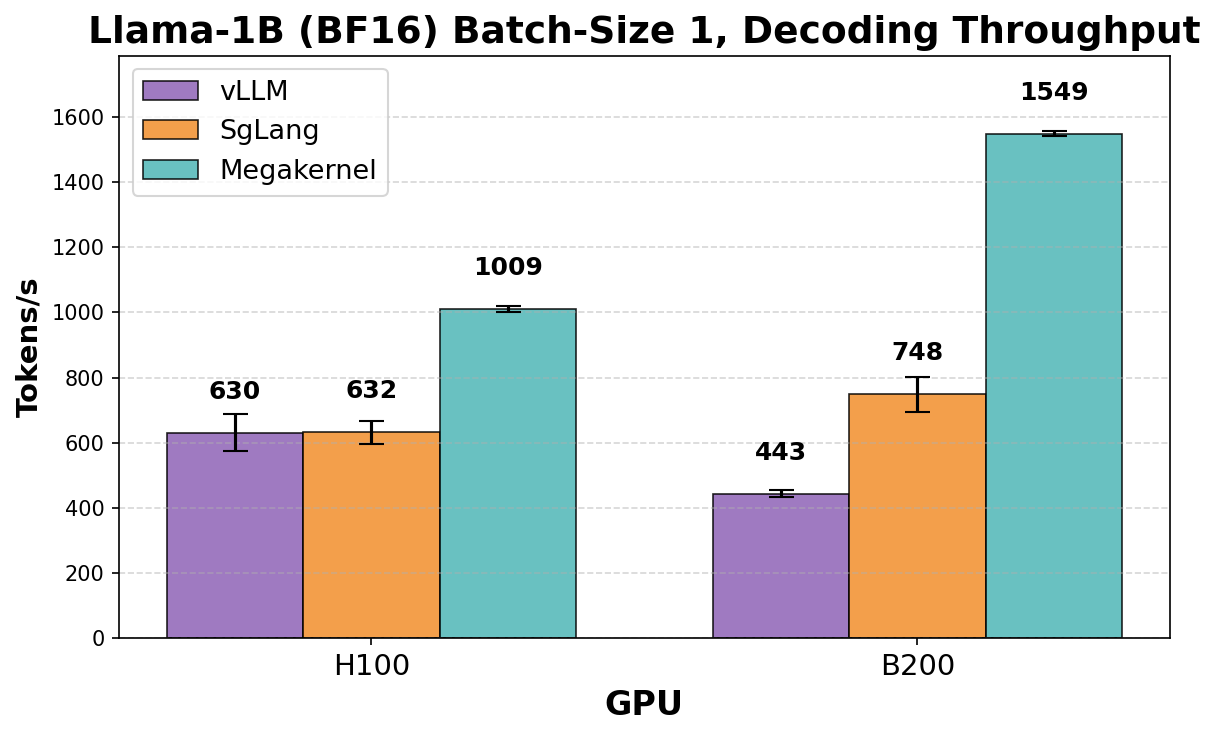
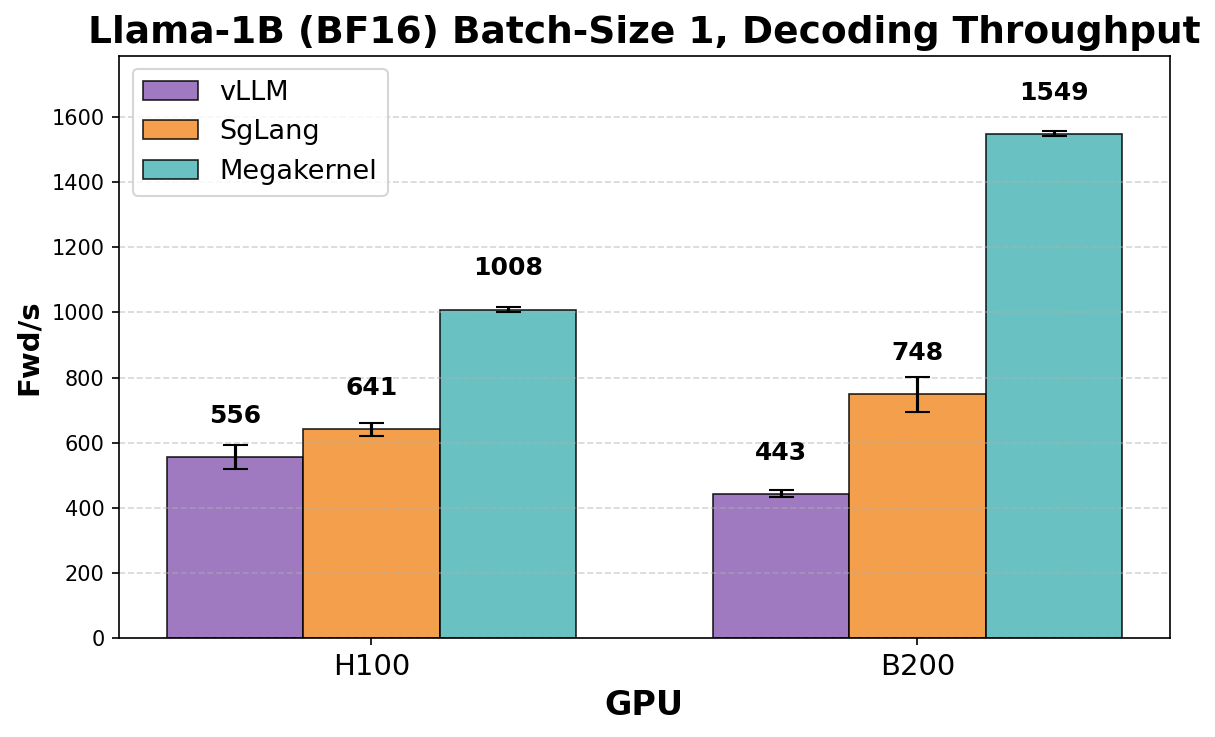
use prev h100 results

diff --git a/misc/visualize_throughput.py b/misc/visualize_throughput.py
@@ -1,5 +1,5 @@
 #!/usr/bin/env python3
-"""Grouped bar graph comparing vLLM, SgLang, and Megakernels throughput (tokens/s) across GPUs."""
+"""Grouped bar graph comparing vLLM, SgLang, and Megakernels throughput (fwd/s) across GPUs."""
 
 import matplotlib
 
@@ -7,44 +7,12 @@ matplotlib.use("Agg")  # headless; no display required
 import matplotlib.pyplot as plt
 import numpy as np
 
-# Throughput data (tokens/s)
-# ORIGINAL DATA:
-# data = {
-#     "H100": {
-#         "vLLM": [528.3286219400202, 543.9213663676006, 595.994130425175],
-#         "SgLang": [652.4172194758338, 651.894325088411, 617.707075474433],
-#         "Megakernel": [1016.25, 1004.35, 1004.60],
-#     },
-#     "B200": {
-#         "vLLM": [763.1435042131611, 765.1417427353231, 630.0018816914028],
-#         "SgLang": [777.8798011215572, 582.5545180470235, 708.0349989612283],
-#         "Megakernel": [1581.22, 1576.93, 1578.34],
-#     },
-# }
 
 data = {
     "H100": {
-        "Megakernel": [
-            1019.47,
-            1004.42,
-            1003.43,
-        ],
-        "SgLang": [
-            639.0071405915832,
-            646.5226525900517,
-            640.2277661920616,
-            651.1255211708208,
-            560.3324315235179,
-            652.2206265290728,
-        ],
-        "vLLM": [
-            619.2003165534729,
-            698.3169756290176,
-            622.462678936665,
-            584.8890062061128,
-            560.6378016560118,
-            696.0680788918768,
-        ],
+        "vLLM": [528.3286219400202, 543.9213663676006, 595.994130425175],
+        "SgLang": [652.4172194758338, 651.894325088411, 617.707075474433],
+        "Megakernel": [1016.25, 1004.35, 1004.60],
     },
     "B200": {
         "Megakernel": [
@@ -101,7 +69,7 @@ for i, method in enumerate(methods):
     )
     bars_by_method.append(bars)
 
-ax.set_ylabel("Tokens/s", fontsize=14, fontweight="bold")
+ax.set_ylabel("Fwd/s", fontsize=14, fontweight="bold")
 ax.set_xlabel("GPU", fontsize=16, fontweight="bold")
 ax.set_title(
     "Llama-1B (BF16) Batch-Size 1, Decoding Throughput",
